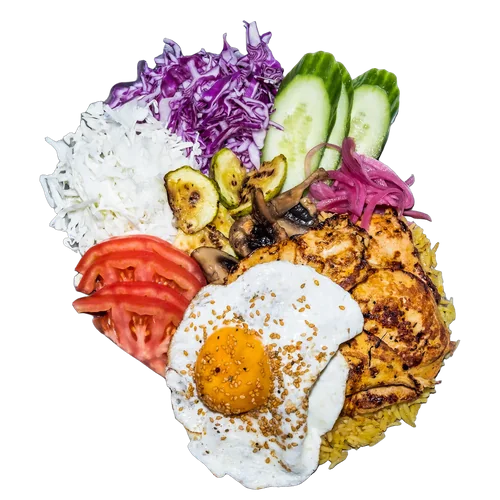
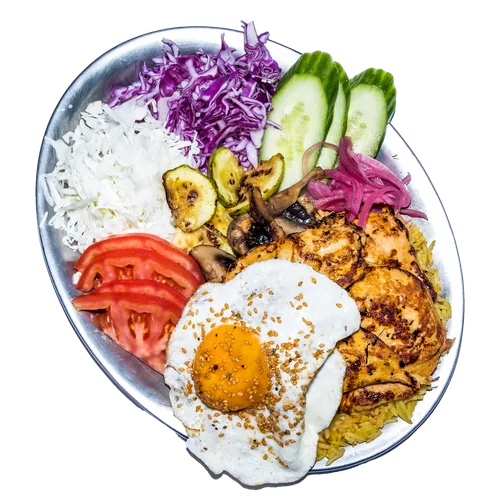
Pork brioche and salmon salad re-cut cleanly; portions on whole plates with contact shadows
- Pork brioche: box shot without plate like the other five; side shot without card and plate
- Salmon salad: whole bowl (old cut wrongly faded its edge)
- Portions: union of BiRefNet + isnet masks keeps the whole metal plate (scripts/gen/recut_union.py)
- Plates and bowls get a soft contact shadow on the podium

diff --git a/css/pv.css b/css/pv.css
@@ -319,3 +319,10 @@
   .pv-w { font-size: clamp(.7rem, 3.3vw, .9rem); padding: 4px clamp(6px, 2.2vw, 10px); }
   .pv-ctas .btn { white-space: nowrap; }
 }
+
+/* ---- plates and bowls: soft contact shadow on the podium, so the dish sits on it ---- */
+.pv-item--flat { isolation: isolate; }
+.pv-item--flat::before { content: ''; position: absolute; z-index: -1; left: 6%; right: 6%; bottom: -3%; height: 20%; border-radius: 50%;
+  background: radial-gradient(closest-side, rgba(0,0,0,.6), rgba(0,0,0,.25) 60%, transparent); filter: blur(8px); pointer-events: none; }
+.pv-item--flat .pv-img { filter: drop-shadow(0 18px 10px rgba(0,0,0,.45)) drop-shadow(0 4px 3px rgba(0,0,0,.35)); }
+.pv--sun.pv--bare .pv-item--flat::before { background: radial-gradient(closest-side, rgba(70,45,0,.5), rgba(70,45,0,.2) 60%, transparent); }

diff --git a/menu.html b/menu.html
@@ -31,7 +31,7 @@
   <link rel="stylesheet" href="css/style.css">
   <link rel="stylesheet" href="css/pv.css">
   <link rel="stylesheet" href="css/menu.css">
-                                      <script type="application/ld+json">
+                                        <script type="application/ld+json">
 {
   "@context": "https://schema.org",
   "@type": "Menu",

diff --git a/scripts/gen/recut_union.py b/scripts/gen/recut_union.py
@@ -1,0 +1,22 @@
+"""Plated dishes: BiRefNet keeps food edges clean but drops the metal plate, isnet keeps the plate
+but bites holes into the food. The union of both masks gives the whole plate with clean food.
+usage: python recut_union.py <photos dir> <assets-src/cutouts> name=DSCFnumber ..."""
+import sys
+from pathlib import Path
+import numpy as np
+from PIL import Image, ImageOps
+from rembg import remove, new_session
+from scipy import ndimage
+
+src, out = Path(sys.argv[1]), Path(sys.argv[2])
+s1, s2 = new_session("birefnet-general"), new_session("isnet-general-use")
+for pair in sys.argv[3:]:
+    name, n = pair.split("=")
+    im = ImageOps.exif_transpose(Image.open(src / f"DSCF{n}.JPG")).convert("RGB"); im.thumbnail((2200, 2200), Image.LANCZOS)
+    a1 = np.array(remove(im, session=s1, only_mask=True)).astype(float)
+    a2 = np.array(remove(im, session=s2, only_mask=True, post_process_mask=True)).astype(float)
+    a = np.maximum(a1, a2)
+    a = np.where(ndimage.binary_fill_holes(a > 128), np.maximum(a, 255), a)   # no holes inside the plate
+    rgba = im.convert("RGBA"); rgba.putalpha(Image.fromarray(a.astype(np.uint8)))
+    rgba = rgba.crop(rgba.getchannel("A").point(lambda v: 255 if v > 24 else 0).getbbox())
+    rgba.save(out / f"{name}.png"); print(name, rgba.size, flush=True)

diff --git a/scripts/gen/normalize.py b/scripts/gen/normalize.py
@@ -73,7 +73,9 @@ def trim_side_plate(im):
 
 FIXED = {}
 # photos the photographer cropped on the left: fade that straight edge (fraction of the width)
-SOFT_LEFT = {"salmon-salad-1": .07}
+SOFT_LEFT = {}
+# masters already cleaned by hand (card and plate removed), no automatic side trimming
+CLEAN = {"pork-brioche-2"}
 for p in sorted(src.glob("*.png")):
     if only and p.stem not in only:
         continue
@@ -87,7 +89,7 @@ for p in sorted(src.glob("*.png")):
         im.putalpha(Image.fromarray((a * g[None, :]).astype(np.uint8)))
     if p.stem.endswith("-brioche-1"):
         im = trim_plate(im)
-    elif p.stem.endswith("-brioche-2"):
+    elif p.stem.endswith("-brioche-2") and p.stem not in CLEAN:
         im = trim_side_plate(im)
     if p.stem in FIXED:
         f = FIXED[p.stem]
